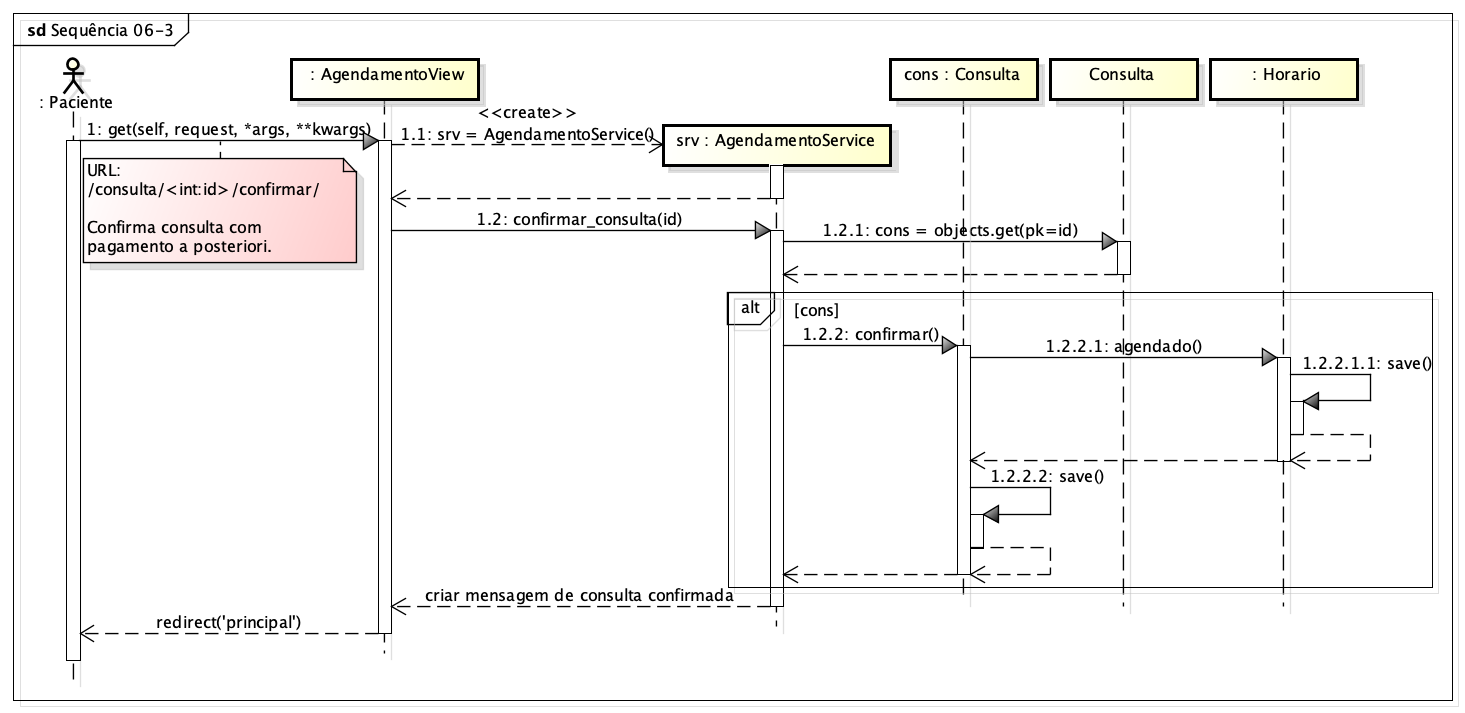
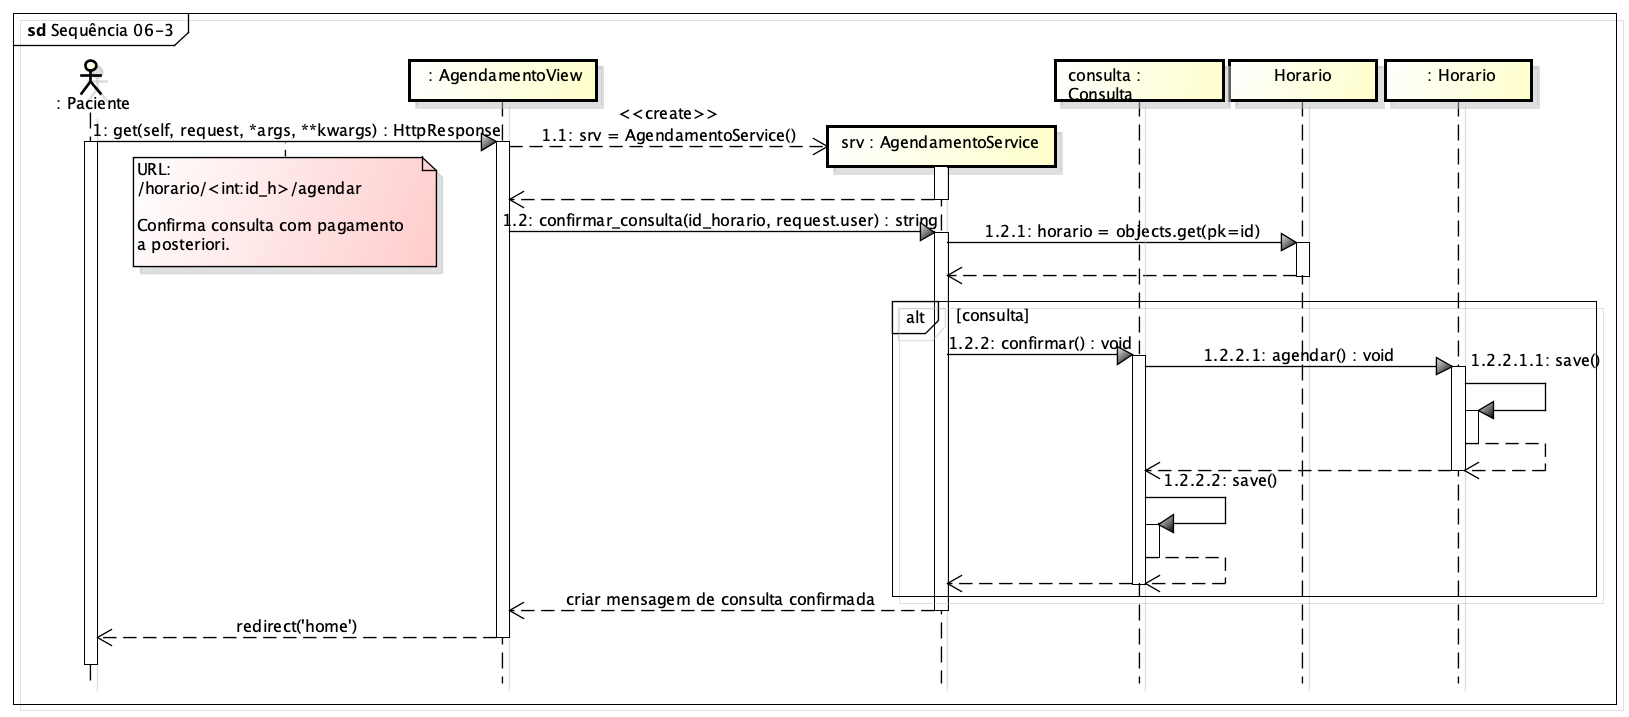
Ajustes gerais no projeto e implementação.

Changed region(s): [[0.0, 0.0309, 1.0, 0.9874], [0.6451, 0.6171, 0.8294, 0.7714]]

diff --git a/mentesa/main/templates/main/psicologos.html b/mentesa/main/templates/main/psicologos.html
@@ -1,0 +1,106 @@
+{% extends 'base.html' %}
+{% block titulo %}Psicólogos - MenteSã{% endblock %}
+
+{% block conteudo %}
+  <style>
+    .psychologists-list {
+      background: #f7fbff;
+      padding: 24px;
+      border-radius: 16px;
+      box-shadow: 0 10px 30px rgba(0, 0, 0, 0.04);
+      margin-bottom: 24px;
+    }
+    .psychologists-list header {
+      margin-bottom: 20px;
+    }
+    .psychologists-list h2 {
+      margin: 0 0 8px;
+      font-size: 1.8rem;
+      color: #1a3f6c;
+    }
+    .psychologists-list p {
+      margin: 0;
+      color: #475569;
+    }
+    .psychologists {
+      list-style: none;
+      padding: 0;
+      margin: 0;
+      display: grid;
+      grid-template-columns: repeat(auto-fit, minmax(250px, 1fr));
+      gap: 18px;
+    }
+    .psychologist-card {
+      background: #ffffff;
+      border: 1px solid #e2e8f0;
+      border-radius: 14px;
+      padding: 18px;
+      transition: transform 0.2s ease, box-shadow 0.2s ease;
+    }
+    .psychologist-card:hover {
+      transform: translateY(-3px);
+      box-shadow: 0 14px 32px rgba(15, 23, 42, 0.12);
+    }
+    .psychologist-card h2 {
+      margin: 0 0 10px;
+      font-size: 1.25rem;
+      color: #0f3d74;
+    }
+    .psychologist-card p {
+      margin: 6px 0;
+      color: #334155;
+      line-height: 1.5;
+    }
+    .no-results {
+      padding: 18px;
+      background: #fffbeb;
+      border: 1px solid #f5c06f;
+      border-radius: 12px;
+      color: #794200;
+    }
+    .button-link {
+      display: inline-block;
+      padding: 10px 16px;
+      margin-top: 12px;
+      background: #1a73e8;
+      color: #ffffff;
+      border-radius: 12px;
+      text-decoration: none;
+      font-weight: 600;
+      transition: background 0.2s ease, transform 0.2s ease;
+    }
+    .button-link:hover {
+      background: #125fd1;
+      transform: translateY(-1px);
+    }
+  </style>
+  <section class="psychologists-list">
+    <header>
+      <h2>Psicólogos Disponíveis</h2>
+      {% if consulta %}
+        <p>Resultados para <strong>{{ consulta }}</strong></p>
+        <a class="button-link" href="{% url 'psicologos' %}">Remover filtro</a>
+      {% endif %}
+    </header>
+    {% if psis %}
+      <ul class="psychologists">
+        {% for psicologo in psis %}
+          <li class="psychologist-card">
+            <h2>{{ psicologo.nome }}</h2>
+            {% if psicologo.crp %}
+              <p><strong>CRP:</strong> {{ psicologo.crp }}</p>
+            {% endif %}
+            {% if psicologo.especialidades.all %}
+              <p><strong>Especialidades:</strong> {{ psicologo.especialidades.all|join:", " }}</p>
+            {% endif %}
+            <a class="button-link" href="{% url 'detalhar_psicologo' psicologo.id %}">Marcar consulta!</a>
+          </li>
+        {% endfor %}
+      </ul>
+    {% else %}
+      <div class="no-results">
+        <p>Nenhum psicólogo encontrado para essa busca.</p>
+      </div>
+    {% endif %}
+  </section>
+{% endblock %}

diff --git a/mentesa/main/templates/main/home.html b/mentesa/main/templates/main/home.html
@@ -1,19 +1,10 @@
 {% extends 'base.html' %}
 
 {% block conteudo %}
-  {% if psicologos %}
-    <ul>
-      {% for psicologo in psicologos %}
-        <li>
-          <strong>{{ psicologo.nome }}</strong> - CRP: {{ psicologo.crp }}
-          {% if psicologo.especialidades.all %}
-            <br/><small>Especialidades: {{ psicologo.especialidades.all|join:", " }}</small>
-          {% endif %}
-          <br/><a href="{% url 'detalhar_psicologo' psicologo.id %}">Marcar consulta!</a>
-        </li>
-      {% endfor %}
-    </ul>
-  {% else %}
-    <p>Não há psicólogos cadastrados no momento.</p>
-  {% endif %}
+<div class="container">
+    <h2>Bem-vindo à Clínica MenteSã!</h2>
+    <img src="https://images.unsplash.com/photo-1519710164239-da123dc03ef4?auto=format&fit=crop&w=1200&q=80" alt="Sala acolhedora para conversas calmas" class="img-fluid rounded mx-auto d-block" style="max-width:250px;" />
+    <p class="text-muted, text-center"><small>(licença aberta via Unsplash.)</small></p>
+    <p>Explore nossos recursos e descubra como podemos ajudar você a alcançar seus objetivos.</p>
+  </div>
 {% endblock %}

diff --git a/mentesa/main/templates/main/confirma_consulta.html b/mentesa/main/templates/main/confirma_consulta.html
@@ -26,6 +26,7 @@
                                 </div>
                             </div>
                             
+
                             <div class="row mb-3">
                                 <div class="col-md-6">
                                     <p><strong>Psicólogo:</strong> {{ consulta.horario.agenda.psicologo.nome }}</p>
@@ -38,6 +39,18 @@
                                 </div>
                                 <div class="col-md-6">
                                     <p><strong>Especialidades:</strong> {{ consulta.horario.agenda.psicologo.especialidades.all|join:", " }}</p>
+                                </div>
+                            </div>
+
+                            <!-- Preço da Consulta -->
+                            <div class="section mb-4">
+                                <h4 class="mb-3">Preço da Consulta</h4>
+                                <div class="price-box p-3 bg-light rounded">
+                                    {% if preco %}
+                                        <p class="mb-0"><strong>Valor:</strong> R$ {{ preco|floatformat:2 }}</p>
+                                    {% else %}
+                                        <p class="mb-0 text-muted">Preço não informado.</p>
+                                    {% endif %}
                                 </div>
                             </div>
                         </div>

diff --git a/mentesa/main/templates/base.html b/mentesa/main/templates/base.html
@@ -14,10 +14,14 @@
                     <h1 class="h3 mb-0">MenteSã</h1>
                     <p class="small mb-0">Clínica de Psicologia e Bem-estar</p>
                 </div>
-                <nav>
+                <nav class="d-flex align-items-center">
                     <a class="text-white me-3" href="/">Início</a>
-                    <a class="text-white me-3" href="/psicologos/">Psicólogos</a>
-                    <a class="text-white" href="/agenda/">Agenda</a>
+                    <a class="text-white me-3" href="#">A clínica</a>
+                    <a class="text-white me-3" href="{% url 'psicologos' %}">Psicólogos</a>
+                    <form class="d-flex" method="get" action="{% url 'buscar_psicologo' %}" role="search">
+                        <input name="nome" class="form-control form-control-sm me-2" type="search" placeholder="Pesquisar psicólogo" aria-label="Pesquisar psicólogo">
+                        <button class="btn btn-sm btn-light" type="submit">Pesquisar</button>
+                    </form>
                 </nav>
             </div>
         </div>
@@ -26,7 +30,7 @@
     <main class="container my-5">
         {% if messages %}
             {% for message in messages %}
-                <div class="alert alert-{{ message.tags }} alert-dismissible fade show" role="alert">
+                <div class="alert alert-{% if message.tags == 'error' %}danger{% else %}{{ message.tags }}{% endif %} alert-dismissible fade show" role="alert">
                     {{ message }}
                     <button type="button" class="btn-close" data-bs-dismiss="alert" aria-label="Close"></button>
                 </div>

diff --git a/mentesa/main/views.py b/mentesa/main/views.py
@@ -3,38 +3,76 @@ from django.views import View
 from django.contrib import messages as message
 from .services import PsicologoService, AgendamentoService
 
-class Home(View):
+# Classe HomeView: responsável por exibir a página inicial
+#################
+class HomeView(View):
+    def get(self, request, *args, **kwargs):
+        return render(request, 'main/home.html')
+
+
+# Classe ListarPsicologosView: responsável por exibir a lista de psicólogos disponíveis
+#############################
+class ListarPsicologosView(View):
     def get(self, request, *args, **kwargs):
         srv = PsicologoService()
         psicologos = srv.recupera_psicologos()
-        contexto = {'psicologos': psicologos}
-        return render(request, 'main/home.html', contexto)
+        contexto = {'psis': psicologos}
+        return render(request, 'main/psicologos.html', contexto)
 
+
+# Classe DetalharPsicologoView: responsável por exibir os detalhes de um psicólogo específico
+##############################
 class DetalharPsicologoView(View):
     def get(self, request, *args, **kwargs):
         srv = PsicologoService()
-        id = kwargs['psicologo_id']
+        id = kwargs.get('psi_id')
+        if not id:
+            message.error(request, 'Identificador de psicólogo não fornecido.')
+            return redirect('psicologos')
         contexto = srv.recupera_psicologo(id)
+        if 'erro' in contexto:
+            message.error(request, contexto['erro'])
+            return redirect('psicologos')
         return render(request, 'main/agenda_psicologo.html', contexto)
-    
+
+
+# Classe AgendamentoView: responsável por lidar com o agendamento de consultas
+########################
 class AgendamentoView(View):
     def post(self, request, *args, **kwargs):
         srv = AgendamentoService()
         tipo = request.POST.get('tipo')
         id_horario = kwargs.get('id_h')
-        consulta = srv.nova_consulta(tipo, id_horario, request.user)
-        contexto = {'consulta': consulta}
-        if consulta is None:
-            message.error(request, 'Não foi possível iniciar o agendamento. Tente novamente.')
-            return redirect('home')
+        if tipo and id_horario:
+            contexto = srv.nova_consulta(tipo, id_horario, request.user)
+        else:
+            message.error(request, 'Dados do agendamento incompletos.')
+            return redirect('psicologos')
+        if 'erro' in contexto:
+            message.error(request, contexto['erro'])
+            return redirect('psicologos')
         return render(request, 'main/confirma_consulta.html', contexto)
     
     def get(self, request, *args, **kwargs):
         srv = AgendamentoService()
         id_horario = kwargs.get('id_h')
         retorno = srv.confirmar_consulta(id_horario, request.user)
-        if retorno == 'ok':
+        if 'status' in retorno and retorno['status'] == 'ok':
             message.success(request, 'Consulta agendada com sucesso!')
         else:            
-            message.error(request, 'Não foi possível agendar a consulta.') 
+            message.error(request, retorno.get('erro', 'Erro ao confirmar consulta.')) 
         return redirect('home')
+
+
+# Classe BuscarPsicologoView: responsável por buscar psicólogos com base no nome fornecido
+############################
+class BuscarPsicologoView(View):
+    def get(self, request, *args, **kwargs):
+        srv = PsicologoService()
+        nome = request.GET.get('nome')
+        if not nome:
+            message.error(request, 'Por favor, insira um nome para buscar.')
+            return redirect('psicologos')
+        psicologos = srv.buscar_psicologo(nome)
+        contexto = {'psis': psicologos, 'consulta': 'nome com o texto: \'{}\''.format(nome)}
+        return render(request, 'main/psicologos.html', contexto)

diff --git a/mentesa/main/services.py b/mentesa/main/services.py
@@ -3,34 +3,45 @@ from .models import Psicologo, Consulta, Horario
 # Classe PsicologoService: responsável por recuperar os psicólogos e suas disponibilidades
 #########################
 class PsicologoService():
-
     def recupera_psicologos(self):
         return Psicologo.objects.all()
 
     def recupera_psicologo(self, id):
-        p1 = Psicologo.objects.get(pk=id)
+        try:
+            p1 = Psicologo.objects.get(pk=id)
+        except Psicologo.DoesNotExist:
+            return {'erro': 'Psicólogo não encontrado.'}
         if p1:
             disp = p1.get_disponibilidades()
             return {'psicologo': p1, 'horarios': disp}
-        return None
     
+    def buscar_psicologo(self, nome):
+        return Psicologo.objects.filter(nome__icontains = nome)
+
+
 # Classe AgendamentoService: responsável por criar uma nova consulta
 ###########################
 class AgendamentoService():
-
     def nova_consulta(self, tipo, id_horario, usuario):
-        horario = Horario.objects.get(pk=id_horario)
+        try:
+            horario = Horario.objects.get(pk=id_horario)
+        except Horario.DoesNotExist:
+            return {'erro': 'Identificador de horário inválido.'}
         if horario and hasattr(usuario, 'paciente'):
             horario.reservar()
             consulta = Consulta(tipo_consulta=tipo, paciente=usuario.paciente, horario=horario)
             consulta.save()
-            return consulta
-        return None
+            preco = horario.agenda.psicologo.get_preco(tipo)
+            return {'consulta': consulta, 'preco': preco} 
+        return {'erro': 'Usuário logado não é um paciente.'}
     
     def confirmar_consulta(self, id_horario, usuario):
-        horario = Horario.objects.get(pk=id_horario)
+        try:
+            horario = Horario.objects.get(pk=id_horario)
+        except Horario.DoesNotExist:
+            return {'erro': 'Identificador de horário inválido'}
         consulta = horario.consulta
         if consulta and hasattr(usuario, 'paciente'):
             consulta.confirmar()
-            return 'ok'
-        return 'erro'
+            return {'status': 'ok'}
+        return {'erro': 'Consulta não encontrada ou usuário não é um paciente.'}

diff --git a/mentesa/main/urls.py b/mentesa/main/urls.py
@@ -1,11 +1,18 @@
 from django.urls import path
-from .views import Home, DetalharPsicologoView, AgendamentoView
+from .views import HomeView, DetalharPsicologoView, AgendamentoView
+from .views import BuscarPsicologoView, ListarPsicologosView
 
 urlpatterns = [
-    path('', Home.as_view(), name='home'),
+    path('', HomeView.as_view(), name='home'),
     path(
-        'psicologo/<int:psicologo_id>/', 
+        'psicologos/', 
+        ListarPsicologosView.as_view(), name='psicologos'),
+    path(
+        'psicologo/<int:psi_id>/', 
         DetalharPsicologoView.as_view(), name='detalhar_psicologo'),
+    path(
+        'psicologo/buscar/',
+        BuscarPsicologoView.as_view(), name='buscar_psicologo'),
     path(
         'horario/<int:id_h>/agendar/', 
         AgendamentoView.as_view(), name='agendar_consulta'),

diff --git a/mentesa/main/models.py b/mentesa/main/models.py
@@ -29,6 +29,7 @@ class Especialidade(models.Model):
 
 # CLASSE Psicologo
 ##################
+PRECO_PADRAO = 100.00  # Valor padrão para consultas, caso não haja preço específico definido
 class Psicologo(models.Model):
     crp = models.CharField(max_length=10)
     nome = models.CharField(max_length=25)
@@ -44,6 +45,12 @@ class Psicologo(models.Model):
             proximos = agenda.horario_set.filter(data__gte=hoje).filter(estado='d').order_by('data')[:15]
             disp.extend(proximos)
         return disp
+    def get_preco(self, tipo):
+        try:
+            preco = self.precoconsulta_set.get(tipo=tipo)
+            return preco.valor
+        except PrecoConsulta.DoesNotExist:
+            return PRECO_PADRAO  # Retorna o preço padrão se não houver preço específico para o tipo de consulta
 
 
 # CLASSE PrecoConsulta

diff --git a/doc/cdu/cdu-01/detalhamento-01.md b/doc/cdu/cdu-01/detalhamento-01.md
@@ -24,8 +24,8 @@
 
 ## Diagrama de Interação (Sequência ou Comunicação)
 
-> Substituir pela imagem correspondente...
+![Diagrama de sequência](./imgs/sequencia_1_1.png)
 
 ## Diagrama de Classes de Projeto
 
-> Substituir pela imagem contendo as classes (modelo, visão e templates) que implementam o respectivo CDU...
+![Diagrama de classes de projeto](./imgs/projeto_01.png)